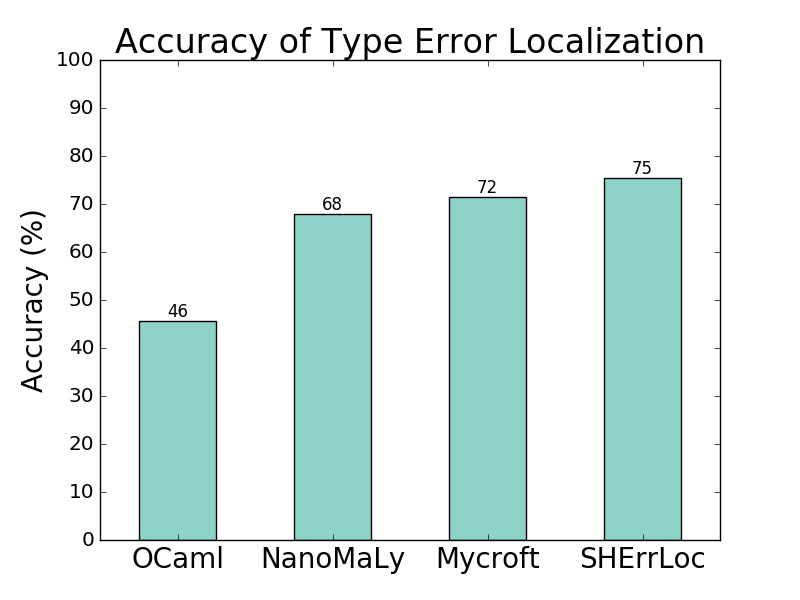
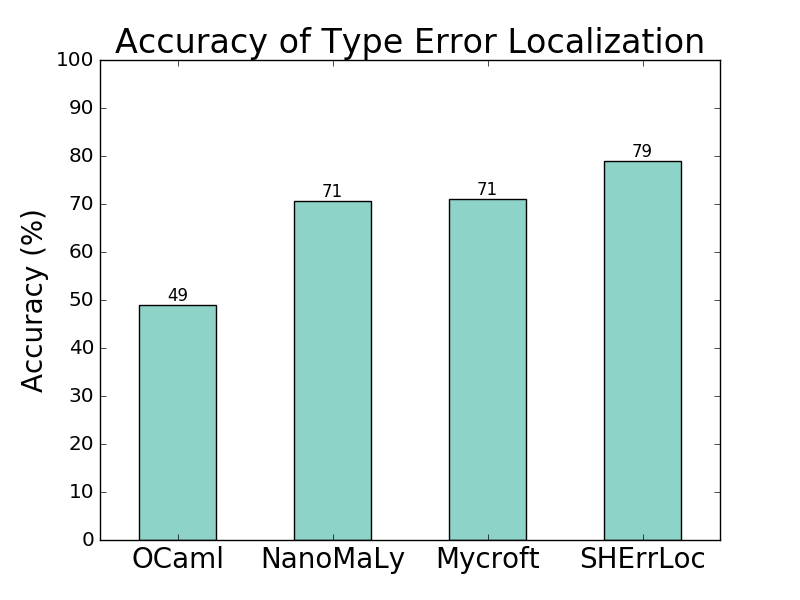
update location numbers

diff --git a/paper/jfp-submission/locating.tex b/paper/jfp-submission/locating.tex
@@ -77,12 +77,12 @@ encountered an unsupported language feature or timed out after one
 minute, or where \toolname failed to produce a witness.
 %
 We discard all such programs in our evaluation to level the playing
-field, leaving us with a benchmark set of 1,612 programs.
+field, leaving us with a benchmark set of 1,569 programs.
 
 \begin{figure}[t]
 \includegraphics[width=0.8\linewidth]{blame.png}
 \caption{Accuracy of type error localization. \toolname's witness-based
-  predictions outperform \ocaml by 20 points, and are competitive
+  predictions outperform \ocaml by 22 points, and are competitive
   with the state-of-the-art tools \mycroft and \sherrloc.}
 \label{fig:results-blame}
 \end{figure}

diff --git a/paper/jfp-submission/plots.py b/paper/jfp-submission/plots.py
@@ -404,7 +404,7 @@ def plot_blame():
 
     # FIXME: load these numbers from csv...
     tools = ['OCaml', 'NanoMaLy', 'Mycroft', 'SHErrLoc']
-    accs  = [45.7,    67.9,       71.5,      75.4      ]
+    accs  = [49.0,    70.7,       71.0,      78.9      ]
 
     N = len(tools)
     ind = np.arange(N)    # the x locations for the groups
